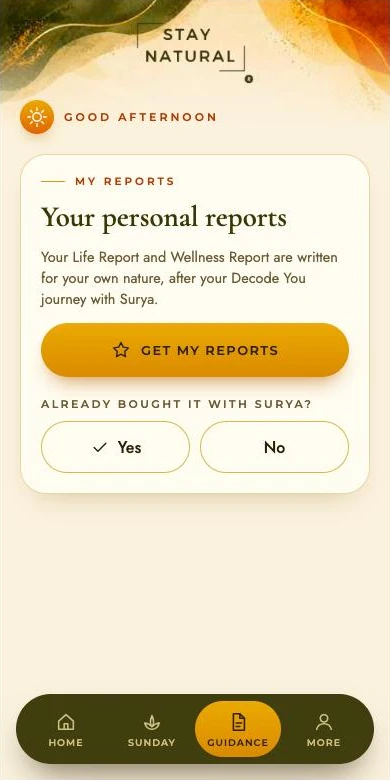
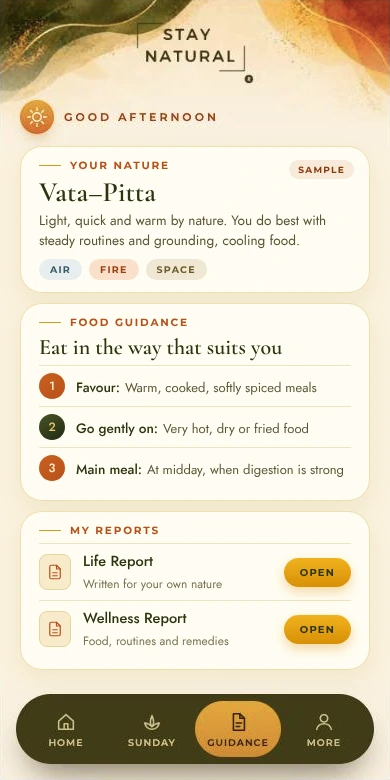
2027 page: sample guidance screen (nature, food guidance, reports); cream cards for both groups
Claude-Session: https://claude.ai/code/session_01LwY2GgZ1mLP62gq51gXVbo

diff --git a/2027.html b/2027.html
@@ -161,7 +161,6 @@ h1,h2,.hero p.lead,p.center{text-wrap:balance}
 .ms .grp::after{content:"";height:1px;flex:1;background:linear-gradient(90deg,#D49A2A88,transparent)}
 .ms .ci{position:relative;background:linear-gradient(165deg,#ffffff1c,#ffffff08);border:1px solid #D49A2A66;border-radius:20px;padding:18px 18px 16px;box-shadow:0 10px 24px #0005}
 .ms .ci svg{width:46px;height:46px;padding:9px;border-radius:50%;background:#D49A2A22;border:1px solid #D49A2A88;margin-bottom:10px}
-.ms .cg.me .ci{background:linear-gradient(165deg,#D49A2A30,#ffffff08);border-color:#F3C86A88}
 @media(max-width:619px){.ms .cg{grid-template-columns:1fr 1fr;gap:10px}.ms .ci{padding:14px 12px 12px;border-radius:16px}.ms .ci svg{width:40px;height:40px;padding:8px;margin-bottom:8px}.ms .ci b{font-size:17px}.ms .ci span{font-size:14px;line-height:1.4}}
 /* premium cards on green */
 .ms .ci{background:linear-gradient(170deg,#FFFBF0 0%,#F7E9C8 100%);border:1px solid #F3C86A;border-radius:20px;padding:20px 18px 16px;box-shadow:0 14px 30px #0007,inset 0 1px 0 #fff;overflow:hidden;transition:transform .25s}
@@ -171,11 +170,9 @@ h1,h2,.hero p.lead,p.center{text-wrap:balance}
 .ms .ci b{color:var(--forest)}
 .ms .ci span{color:#5A5336}
 .ms .ci .tg{display:inline-block;font-style:normal;font-size:11px;font-weight:700;letter-spacing:.12em;text-transform:uppercase;color:#8A3B10;background:#B8501B1c;border-radius:999px;padding:3px 10px;margin:0 0 8px;position:absolute;top:18px;right:14px}
-.ms .cg.me .ci{background:linear-gradient(160deg,#F9D985 0%,#E0A73A 55%,#C98A1E 100%);border-color:#FFE29A;box-shadow:0 16px 34px #0009,inset 0 1px 0 #fff8}
-.ms .cg.me .ci::before{background:linear-gradient(90deg,#1E2A12,#4A5428)}
-.ms .cg.me .ci svg{background:linear-gradient(145deg,#2d3c18,#1E2A12);color:var(--amber);box-shadow:0 6px 14px #1E2A1266}
-.ms .cg.me .ci b{color:#1B230E}
-.ms .cg.me .ci span{color:#3a3213}
+.ms .cg.me .ci::before{background:linear-gradient(90deg,#1E2A12,#5d6b34)}
+.ms .cg.me .ci{border-color:#CFC98E}
+.ms .cg.me .ci svg{background:linear-gradient(145deg,#33441b,#1E2A12);color:var(--amber);box-shadow:0 6px 14px #1E2A1255}
 .ms .cg.me .ci .tg{color:#F3C86A;background:#1E2A12}
 @media(max-width:619px){.ms .ci .tg{font-size:9.5px;padding:2px 8px;top:14px;right:10px;letter-spacing:.08em}}
 .swipe{display:none;text-align:center;font-size:13px;color:#C9BC95;margin:-8px auto 6px}
@@ -332,11 +329,11 @@ footer img{height:40px;margin:0 auto 8px}
  <div class="shots" role="group" aria-label="Screens from My Space">
   <figure class="shot"><div class="dev"><img src="/new/img/ms-sunday.webp" alt="My Space on a phone: the next Sunday Reset with a join button, and the monthly theme" width="390" height="780" loading="lazy"></div><b>Your Sunday Reset</b><span>The date, the join button, and the time in your own time zone.</span></figure>
   <figure class="shot"><div class="dev"><img src="/new/img/ms-progress.webp" alt="My Space on a phone: the monthly theme and progress ring with a daily check-in" width="390" height="780" loading="lazy"></div><b>Your month at a glance</b><span>A theme for the month, a daily check-in and a gentle progress ring.</span></figure>
-  <figure class="shot"><div class="dev"><img src="/new/img/ms-reports.webp" alt="My Space on a phone: your personal Life Report and Wellness Report" width="390" height="780" loading="lazy"></div><b>Your personal reports</b><span>A Life Report and a Wellness Report, written for your own nature.</span></figure>
+  <figure class="shot"><div class="dev"><img src="/new/img/ms-reports.webp" alt="Sample My Space guidance screen: your nature, food guidance, and your Life Report and Wellness Report" width="390" height="780" loading="lazy"></div><b>Your personal reports</b><span>Your nature, food guidance, and a Life Report and Wellness Report written for you.</span></figure>
   <figure class="shot"><div class="dev"><img src="/new/img/ms-addphone.webp" alt="My Space on a phone: steps to keep My Space like an app on your home screen" width="390" height="780" loading="lazy"></div><b>Opens like an app</b><span>Save it to your home screen once. One tap, no browser bars.</span></figure>
  </div>
  <p class="swipe">Swipe to see more →</p>
- <p class="shotnote">Real screens from My Space</p>
+ <p class="shotnote">Screens from My Space. The reports screen shows a sample.</p>
  <h3 class="grp"><span>Every week, for every member</span></h3>
  <div class="cg">
   <div class="ci"><svg viewBox="0 0 48 48"><use href="#i-lotus"/></svg><em class="tg">Every Sunday</em><b>Live Sunday Reset</b><span>Every Sunday, 8:00 a.m. UK time. Breathe, stretch, chant and sit quietly together, to close the week and open the next. Your weekly practice.</span></div>
